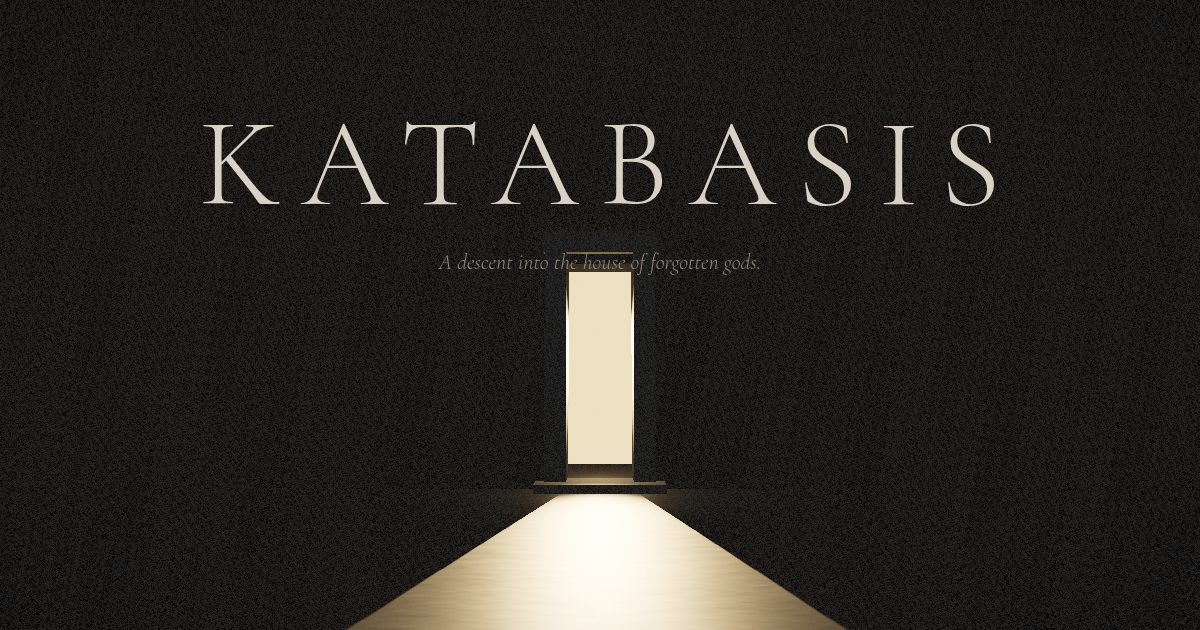
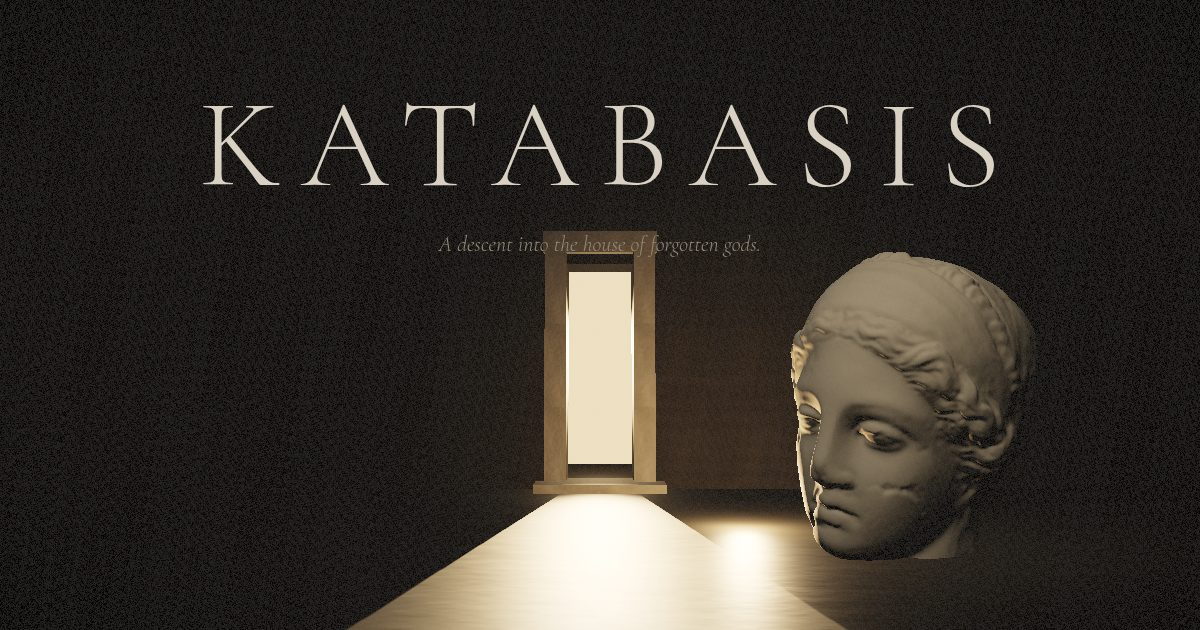
Raise the opening and the turn to award grade
- Hero rebuilt around a fallen colossal head resting outside the
  threshold wall, face turned back toward the door's light; warm
  floor-spill and a pale sky sliver integrate it with the scene;
  the frame now works as a poster and is exported as one
- Room III gains the narrative turn: the chamber begins as darkness
  and a cool rim; the window, its shaft, its dust and its floor
  bounce wake together as the visitor commits, resolving the mass
  into the same face met at the door — copy rewritten to bind the
  two encounters
- Portrait hero pans toward the head so mobile keeps the subject;
  vestibule ceiling pulled back behind the wall plane; hero type
  cleared of the lintel

diff --git a/js/world.js b/js/world.js
@@ -98,10 +98,11 @@ export class World {
     return m;
   }
 
-  // ── I · threshold — a blind monumental wall, one lit slit ────
+  // ── I · threshold — a blind wall, one lit slit, and a fallen
+  //      colossal head resting outside the door ─────────────────
 
   _buildThreshold() {
-    const { wall, floor, marble } = this.materials;
+    const { wall, floor, marble, scan } = this.materials;
     const g = this.gThreshold = this._chamber([-0.1, 0.30]);
 
     // plaza
@@ -125,10 +126,31 @@ export class World {
     // a low threshold step
     this._box(SLIT_W + 2.4, 0.35, 2.4, 0, 0.175, 1.6, marble, g, { uv: [2, 0.3] });
 
+    // the fallen colossus — a head set down outside its own house,
+    // face turned back toward the light that leaves through the door
+    const head = new THREE.Mesh(this.models.igea, scan);
+    head.scale.setScalar(9.0);
+    head.position.set(8.8, -0.95, 14);
+    head.rotation.set(-0.04, -0.95, -0.10);           // settled, listening to the door
+    head.castShadow = true;
+    head.receiveShadow = true;
+    g.add(head);
+
+    // a pale sliver of sky grazes the face from high in front
+    const sliver = new THREE.SpotLight(0xbcb2a0, 340, 60, 0.24, 0.55, 1.5);
+    sliver.position.set(-4, 28, 38);
+    sliver.target.position.set(8.8, 4, 14);
+    g.add(sliver, sliver.target);
+
+    // the door's spill, returned from the pale floor into the jaw
+    const bounce = new THREE.PointLight(0xffdcae, 85, 20, 1.6);
+    bounce.position.set(4.5, 1.0, 11.5);
+    g.add(bounce);
+
     // vestibule: a short dark passage before the stair goes down
     this._box(1.8, 15, 11, -4.1, 6.5, -5.5, wall, g, { uv: [1.2, 1.6] });
     this._box(1.8, 15, 11, 4.1, 6.5, -5.5, wall, g, { uv: [1.2, 1.6] });
-    this._box(12, 1.6, 12, 0, 13.3, -5.5, wall, g, { uv: [1.4, 1.4] });
+    this._box(12, 1.6, 11, 0, 13.3, -6.6, wall, g, { uv: [1.4, 1.4] });
 
     // warm light from inside, spilling through the slit onto the plaza
     const inner = new THREE.SpotLight(0xffdfb0, 480, 70, 0.42, 0.55, 1.4);
@@ -239,10 +261,13 @@ export class World {
     }
     g.add(key, key.target);
     this.veiled.push({ spot: key, base: 520, pos: new V3(5, -9.2, -72), boost: 0 });
+    this.faceKey = key;
 
-    // the window itself, and the body of its light
-    this._slit(g, 1.3, 6.5, -15.9, 7, -65.5, Math.PI / 2, 0xd4bd96);
-    this._shaft(g, new V3(-14.5, 7.5, -65), new V3(4, -11, -71.5), 0.9, 4.6, 0xe8dcc2, 0.22);
+    // the window itself, and the body of its light — both wake with
+    // the reveal: the room is first read as darkness and a rim
+    this.faceSlit = this._slit(g, 1.3, 6.5, -15.9, 7, -65.5, Math.PI / 2, 0xd4bd96, 0.999);
+    this.faceSlit.material.transparent = true;
+    this.faceShaft = this._shaft(g, new V3(-14.5, 7.5, -65), new V3(4, -11, -71.5), 0.9, 4.6, 0xe8dcc2, 0.22);
 
     // sparse dust, alive only inside the shaft
     this.dustVeiled = { center: [-5, -2, -68.5], box: [8, 14, 5] };
@@ -254,9 +279,10 @@ export class World {
     g.add(rim, rim.target);
 
     // bounce off the floor pool — soft, warm, from below
-    const bounce = new THREE.PointLight(0xd9c8a8, 9, 9, 1.8);
-    bounce.position.set(3.5, -10.5, -70);
-    g.add(bounce);
+    const fbounce = new THREE.PointLight(0xd9c8a8, 9, 9, 1.8);
+    fbounce.position.set(3.5, -10.5, -70);
+    g.add(fbounce);
+    this.faceBounce = fbounce;
 
     // the far wall barely exists — enough to keep the dark material
     const wash = new THREE.SpotLight(0x3d4450, 220, 50, 0.9, 0.9, 1.7);
@@ -420,15 +446,16 @@ export class World {
   _buildAtmosphere() {
     const q = this.quality.dustScale;
     const add = (spec, count, opacity, group) => {
-      if (!spec) return;
+      if (!spec) return null;
       const d = makeDust({
         count: Math.round(count * q),
         box: spec.box, center: spec.center, opacity, map: this.glowTex,
       });
       group.add(d);
       this.dusts.push(d);
+      return d;
     };
-    add(this.dustVeiled, 90, 0.15, this.gVeiled);
+    this.faceDust = add(this.dustVeiled, 90, 0.15, this.gVeiled);
     add(this.dustRotunda, 130, 0.15, this.gRotunda);
 
     // ambient — barely there, cool above, warm-black below
@@ -463,9 +490,19 @@ export class World {
     for (const d of this.dusts) if (d.parent.visible) d.material.uniforms.uTime.value = time;
     for (const r of this.rays) if (r.parent.visible) r.material.uniforms.uTime.value = time;
 
+    // the turn: the window light finds the face only as you commit
+    // to the room — first a rim in darkness, then a goddess
+    const reveal = 0.04 + 0.96 * THREE.MathUtils.smoothstep(progress, 0.46, 0.575);
+    if (this.faceKey) {
+      this.faceSlit.material.opacity = reveal;
+      this.faceShaft.material.uniforms.uIntensity.value = 0.22 * reveal;
+      this.faceBounce.intensity = 9 * reveal;
+      if (this.faceDust) this.faceDust.material.uniforms.uOpacity.value = 0.15 * reveal;
+    }
+
     // attention light on the head — an almost imperceptible swell
     for (const vfig of this.veiled) {
-      vfig.spot.intensity += ((vfig.base * (1 + vfig.boost * 0.22)) - vfig.spot.intensity) * Math.min(1, dt * 3);
+      vfig.spot.intensity += ((vfig.base * reveal * (1 + vfig.boost * 0.22)) - vfig.spot.intensity) * Math.min(1, dt * 5);
     }
 
     // ending: the room recedes; only the oculus stays

diff --git a/js/camera.js b/js/camera.js
@@ -86,9 +86,14 @@ export class CameraRig {
     this._look.x += px * 1.1;
     this._look.y += py * -0.7;
     // portrait screens: aim lower so the subject sits in the upper
-    // frame and the copy owns the floor
-    if (this.camera.aspect < 0.75) this._look.y -= 2.2;
-    else if (this.camera.aspect < 1) this._look.y -= 0.9;
+    // frame and the copy owns the floor; at the threshold, pan
+    // toward the fallen head so the hero keeps its subject
+    if (this.camera.aspect < 0.75) {
+      this._look.y -= 2.2;
+      this._look.x += 3.3 * Math.max(0, 1 - t / 0.1);
+    } else if (this.camera.aspect < 1) {
+      this._look.y -= 0.9;
+    }
     this.camera.up.copy(this._up);
     this.camera.lookAt(this._look);
 

diff --git a/index.html b/index.html
@@ -95,8 +95,8 @@
     <div class="ch-inner left">
       <p class="label">III — The Face</p>
       <h2>The gods did not die.<br/>They were forgotten,<br/>which is slower.</h2>
-      <p class="body">Her head was found without her temple.
-      The stone kept the face; everything else it let go.</p>
+      <p class="body">You passed this face at the door.
+      The house keeps it closer now.</p>
     </div>
   </section>
 

diff --git a/css/main.css b/css/main.css
@@ -325,7 +325,7 @@ body.entered #nav { opacity: 1; }
   max-width: none;
   width: 100%;
   align-self: flex-start;
-  margin-top: clamp(90px, 16vh, 180px);
+  margin-top: clamp(80px, 13vh, 150px);
 }
 
 .hero-title {

diff --git a/README.md b/README.md
@@ -2,7 +2,9 @@
 
 A digital monument in five rooms: a descent past a goddess's head, one
 recovered wing, and a winged colossus beneath an oculus. Scroll is the
-dolly; the building refuses to be rushed.
+dolly; the building refuses to be rushed. Room III turns on a single
+perceptual shift: the chamber is first read as darkness and a rim of
+light, until the window wakes and the mass becomes a face.
 
 ![KATABASIS](assets/poster.jpg)
 
@@ -10,9 +12,9 @@ dolly; the building refuses to be rushed.
 
 | | Room | |
 |---|---|---|
-| I | **Threshold** | a blind monumental wall, one lit slit |
+| I | **Threshold** | a fallen colossal head outside a wall with one lit slit |
 | II | **The Stair** | a slot of darkness, one blade of light |
-| III | **The Face** | a goddess's head beneath a high window |
+| III | **The Face** | the same face again, found by a waking window |
 | IV | **The Wing** | a marble wing recovered without its figure |
 | V | **The Winged One** | a winged colossus where the light comes down |
 | VI | **Anabasis** | the way up |